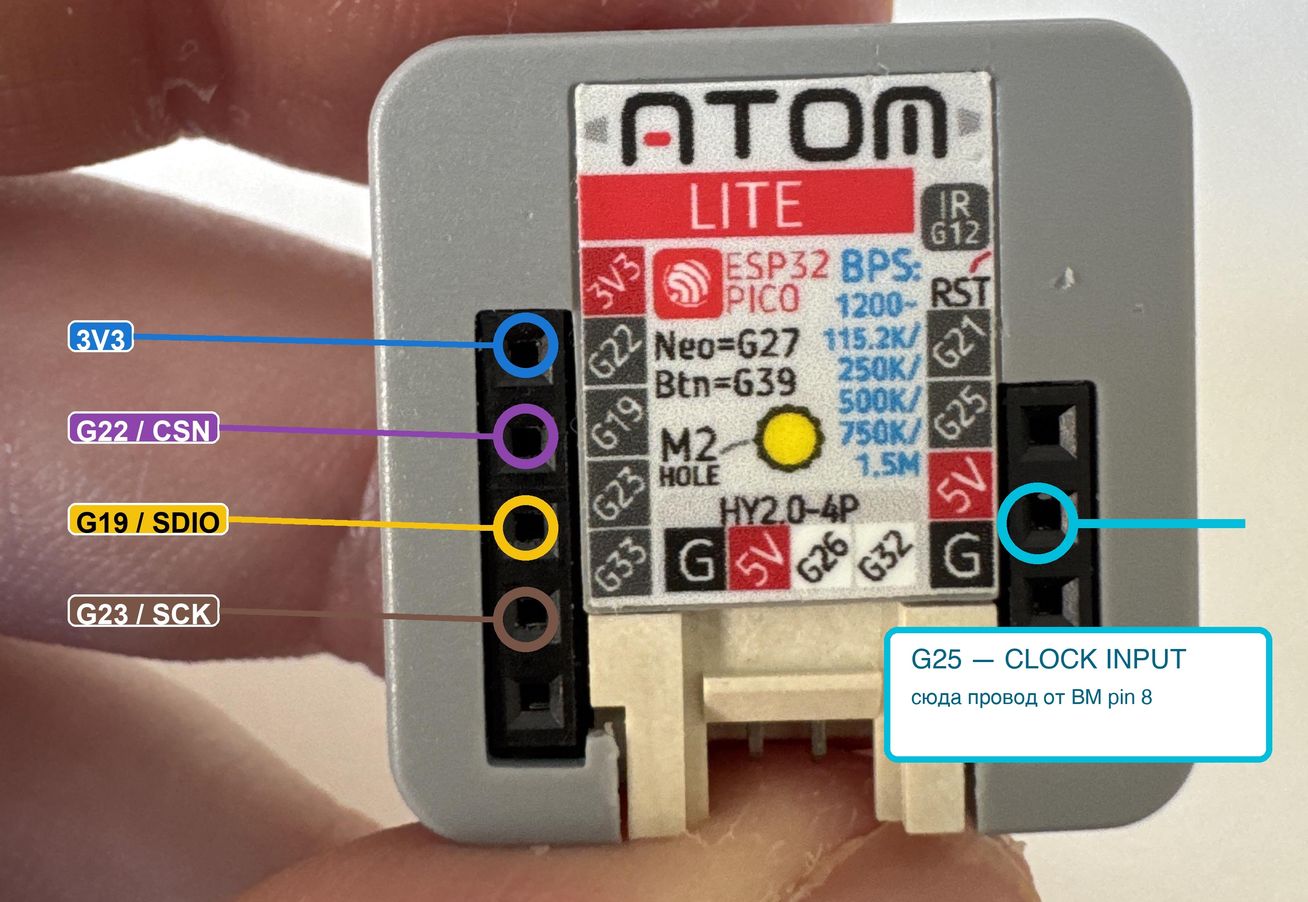
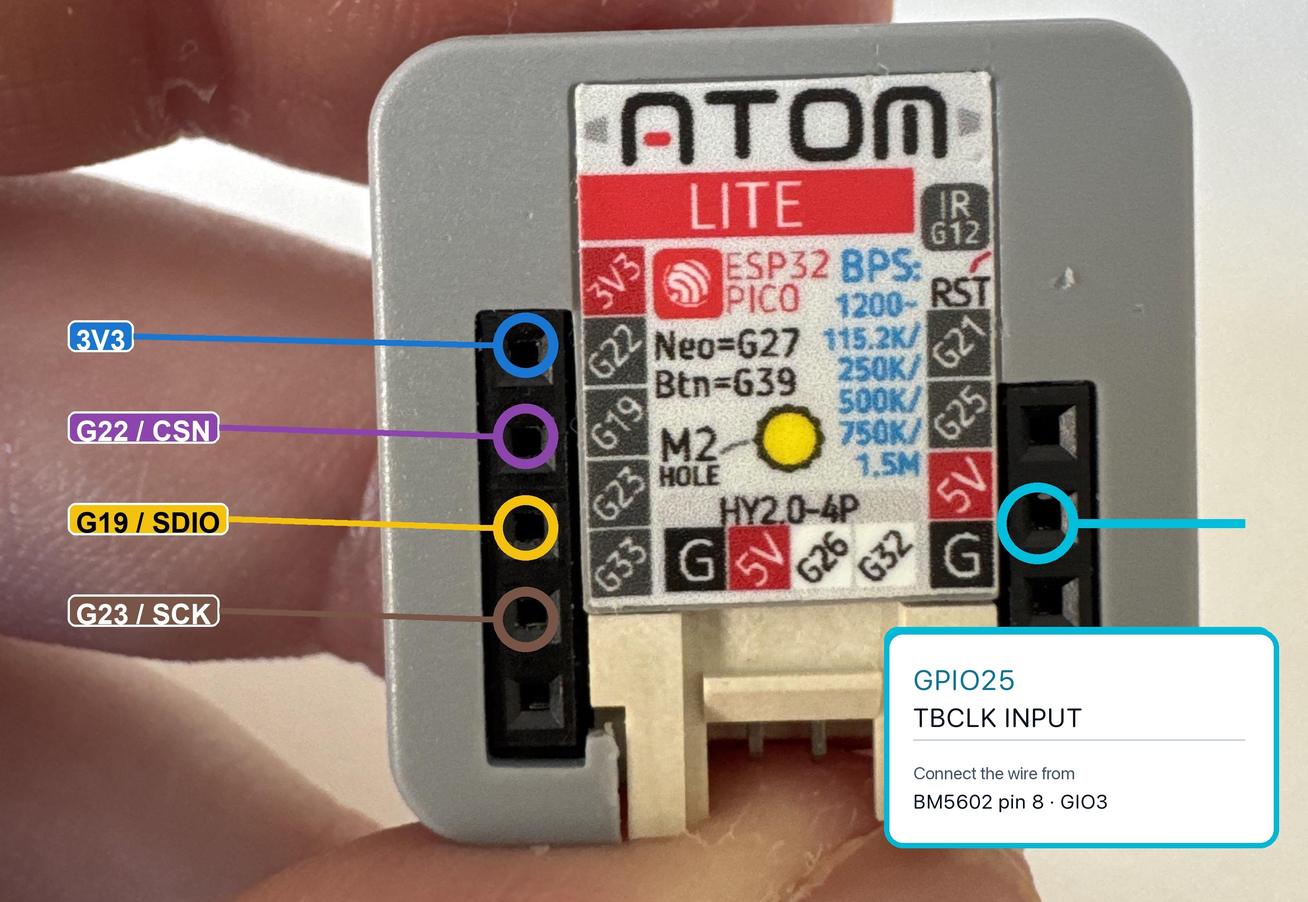
Redesign wiring diagrams and document direct mode

Changed region(s): [[0.6517, 0.713, 0.9931, 0.961], [0.6828, 0.713, 0.9, 0.806]]

diff --git a/docs/IMPLEMENTATION_NOTES.md b/docs/IMPLEMENTATION_NOTES.md
@@ -1,0 +1,153 @@
+# Why this implementation uses synchronized direct mode
+
+This project began by reproducing the public six-wire BM5602 approach from [kuzmin-no/BenQ_ScreenBar_HALO_2_HA_integration](https://github.com/kuzmin-no/BenQ_ScreenBar_HALO_2_HA_integration). That implementation was useful prior art and established a working 4-wire SPI connection to the transceiver. On our tested ScreenBar HALO 2, however, reproducing the visible packet-engine configuration and payload did **not** result in a command accepted by the lamp.
+
+This document explains the difference without implying that the earlier project is universally broken. BenQ revisions or paired radio parameters may differ. The statement here is narrower: **the packet-engine path did not control our tested lamp, while clock-synchronous direct mode did.**
+
+## Architecture comparison
+
+| Area | Previous packet-engine approach | This repository |
+|---|---|---|
+| MCU-to-BM interface | 4-wire SPI | 4-wire SPI plus direct-data and clock synchronization |
+| Physical connections | Six wires | Seven wires |
+| GIO2 | SPI MISO/SDO | SPI MISO normally; direct TX data during transmission |
+| GIO3 | Not connected | `TBCLK` output connected to ATOM GPIO25 |
+| TX FIFO | BM5602 packet FIFO, `W_TX_PAYLOAD` | Software-built complete on-air bitstream |
+| Packet framing | Generated internally by BM5602 | Explicit preamble, air address, PCF, payload and CRC |
+| CRC | BM5602 packet engine | Software CRC-CCITT (`0x1021`) |
+| RX | Packet-engine FIFO | Passive fixed-width FIFO with software validation |
+| State source | Primarily optimistic control state | Original-controller request frames, CRC checked |
+
+## What worked in the six-wire port
+
+The six-wire port was not an SPI or wiring failure. We verified:
+
+- BM5602 identification returned `56 02 01`.
+- `SDIO` worked as MOSI.
+- `GIO2` worked as MISO after writing `IO1 = 0x48`.
+- Register writes and reads were stable.
+- The TX FIFO accepted the expected 10-byte application payload.
+- RF energy and transmitted frames were observable with a separate receiver.
+
+These checks proved that the MCU could configure and transmit through the BM5602. They did **not** prove that the lamp accepted the resulting on-air packet.
+
+## Why the lamp still rejected it
+
+The packet seen by application code is not the complete radio frame. The BM5602 packet engine also creates or transforms fields that are not visible in the 10-byte payload:
+
+- preamble;
+- address serialization;
+- the 9-bit Packet Control Field (PCF);
+- packet ID and ACK-request behavior;
+- CRC state and covered bits;
+- possible trailing or alignment bits.
+
+Our independent sniffer could see the expected visible payload from packet-engine transmission, but the lamp produced no valid response and showed no physical reaction. We tested and excluded the obvious alternatives:
+
+- normal and reversed register address order;
+- different dynamic-payload settings;
+- packet-ID sweeps;
+- stale reset state;
+- basic SPI, RF channel and module failure.
+
+The remaining difference was hidden on-air framing generated by the packet engine.
+
+## The decisive change: GIO3 / TBCLK
+
+The BM5602 can expose its direct-mode bit clock on `GIO3`. We added the seventh wire:
+
+```text
+BM5602 pin 8 / GIO3 / TBCLK  ->  M5Stack ATOM Lite GPIO25
+```
+
+During transmission:
+
+```text
+GIO2 selector 3  = DIRECT_TXD
+GIO3 selector 8  = TBCLK_OUTPUT
+GPIO33            = direct data
+GPIO25            = TBCLK input
+update edge       = LOW
+bit order         = MSB first
+```
+
+The ESP32 changes each data bit against the BM5602's own clock rather than approximating bit timing with delays. This removes phase drift and makes the transmitted bitstream deterministic.
+
+## Recovered stock frame format
+
+A captured original-controller request was:
+
+```text
+54 04 10 0C 0F 55 5B 0F 55 01 02 20 B9
+```
+
+The direct transmitter sends:
+
+1. alternating preamble;
+2. air address `86 BB EA 9C`;
+3. canonical PCF byte;
+4. ten application bytes;
+5. CRC16.
+
+### No extra manual ninth PCF bit
+
+An early direct-mode attempt inserted a separate ninth PCF bit after the canonical PCF byte. That shifted the entire payload by one bit. In this direct input path, the canonical PCF byte must be followed immediately by the first payload byte.
+
+### CRC
+
+The recovered CRC model is:
+
+```text
+algorithm:       CRC-CCITT
+polynomial:      0x1021
+initial state:   0xEFDF before the four on-air address bytes
+covered bytes:   reversed/on-air address + PCF + 10-byte payload
+```
+
+For the tested address, the state after the four address bytes is `0x5042`.
+
+Known vectors included in `tests/test_protocol.py`:
+
+```text
+stock request:  PCF 54 -> CRC 20B9
+power on:       PCF 50 -> CRC E962
+power off:      PCF 50 -> CRC 0241
+```
+
+## End-to-end validation
+
+A successful local TX function call is not described as a lamp acknowledgement. The working path was accepted only after all three observations agreed:
+
+1. the bridge emitted the intended bit-exact request;
+2. an independent receiver captured the lamp's immediate RF response;
+3. the lamp visibly changed state.
+
+Validated examples:
+
+```text
+TX ON:     50 02 11 0C 0F 55 5B 0F 55 01 02 E9 62
+Lamp reply:51 05 10 0C 0F 55 5B 0F 55 01 02 C6 F2
+
+TX OFF:    50 02 10 0C 0F 55 5B 0F 55 01 02 02 41
+Lamp reply:51 04 10 0C 0F 55 5B 0F 55 01 02 A9 B7
+```
+
+## Why lamp replies are not used as state
+
+The reply control byte can differ from the requested control byte. For example, the accepted ON request carried control `0x11`, while its lamp reply carried `0x10`. Treating the reply as authoritative state would incorrectly turn the Home Assistant entity back off.
+
+Observed stock exchanges distinguish the roles through PCF packet-ID parity:
+
+- **even PID:** original-controller request — authoritative desired state;
+- **odd PID:** lamp reply — response metadata, not authoritative state.
+
+Passive RX therefore accepts only even-PID requests and additionally requires:
+
+- exactly 13 bytes;
+- valid CRC;
+- valid lamp mode;
+- brightness and temperature within supported ranges.
+
+## Summary
+
+The earlier approach correctly demonstrated BM5602 SPI and packet-engine transmission. It failed on our unit because matching the visible payload was insufficient; the lamp required the exact hidden on-air framing. The extra `TBCLK` wire lets this implementation bypass that ambiguity and reproduce the accepted stock frame bit for bit.

diff --git a/README.md b/README.md
@@ -36,6 +36,7 @@ See **[Wiring and soldering](docs/WIRING.md)** before powering the boards.
 | `home-assistant/package.yaml` | Optional authenticated REST integration with guarded controller-state synchronization |
 | `home-assistant/dashboard.yaml` | Compact stock-card dashboard |
 | `home-assistant/secrets.example.yaml` | Matching Home Assistant web credentials |
+| [`docs/IMPLEMENTATION_NOTES.md`](docs/IMPLEMENTATION_NOTES.md) | Differences from the packet-engine approach and why it failed on our tested lamp |
 
 ## Install
 
@@ -152,6 +153,8 @@ Only even-PID request frames are treated as authoritative controller state. Odd-
 ## Prior art and research
 
 The interoperability work was informed by the public BM5602 examples and by [kuzmin-no/BenQ_ScreenBar_HALO_2_HA_integration](https://github.com/kuzmin-no/BenQ_ScreenBar_HALO_2_HA_integration). This repository provides an independently implemented ESP-IDF/ESPHome C++ direct-mode driver, the recovered framing/CRC behavior, and the Home Assistant integration used by this project.
+
+See **[Why this implementation uses synchronized direct mode](docs/IMPLEMENTATION_NOTES.md)** for the exact architectural differences, failed hypotheses, recovered frame format, and end-to-end validation criteria.
 
 ## Disclaimer
 
